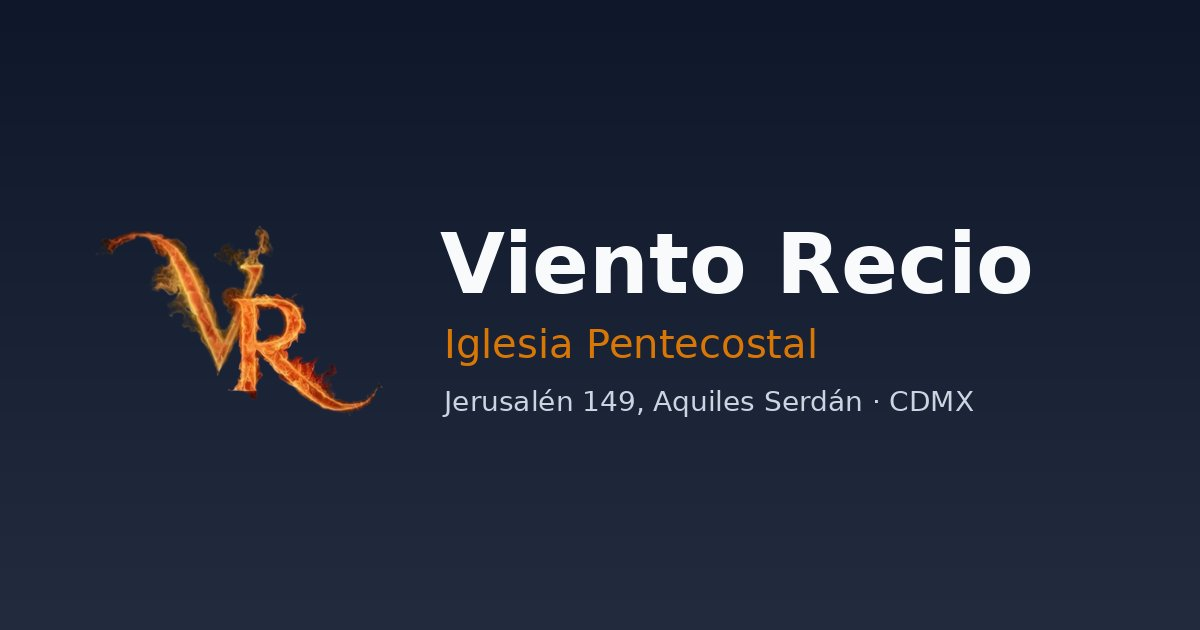
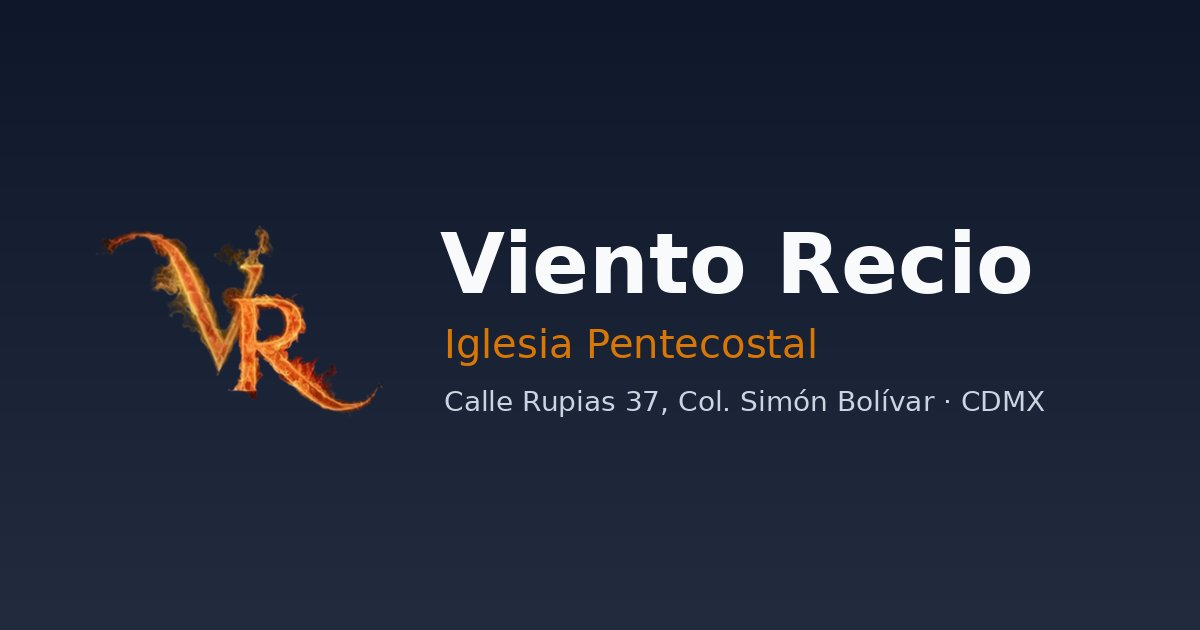
Dirección correcta: Calle Rupias 37, Col. Simón Bolívar (mapa, Google y vista al compartir)

Changed region(s): [[0.37, 0.6032, 0.8633, 0.6635]]

diff --git a/index.html b/index.html
@@ -6,7 +6,7 @@
     <title>Viento Recio | Iglesia Pentecostal en Venustiano Carranza, CDMX</title>
     <meta
       name="description"
-      content="Iglesia Pentecostal Viento Recio: cultos, estudios bíblicos y ministerio de jóvenes en Jerusalén 149, Col. Aquiles Serdán, Venustiano Carranza, CDMX. Te esperamos."
+      content="Iglesia Pentecostal Viento Recio: cultos, estudios bíblicos y ministerio de jóvenes en Calle Rupias 37, Col. Simón Bolívar, Venustiano Carranza, CDMX. Te esperamos."
     />
     <meta name="theme-color" content="#0f172a" />
     <link rel="canonical" href="https://vientorecio.netlify.app/" />
@@ -39,11 +39,15 @@
         "image": "https://vientorecio.netlify.app/og-image.jpg",
         "address": {
           "@type": "PostalAddress",
-          "streetAddress": "Jerusalén 149, Col. Aquiles Serdán",
+          "streetAddress": "Calle Rupias 37, Col. Simón Bolívar",
           "addressLocality": "Venustiano Carranza",
           "addressRegion": "Ciudad de México",
-          "postalCode": "15430",
           "addressCountry": "MX"
+        },
+        "geo": {
+          "@type": "GeoCoordinates",
+          "latitude": 19.4509452,
+          "longitude": -99.0945326
         }
       }
     </script>

diff --git a/src/components/Contact.tsx b/src/components/Contact.tsx
@@ -177,12 +177,12 @@ const Contact: React.FC = () => {
                   <h4>Visítanos</h4>
                   <p className="detail-title">Nuestra Casa de Oración</p>
                   <p className="detail-content">
-                    Jerusalén 149, Col. Aquiles Serdán<br />
-                    Alcaldía Venustiano Carranza, CP 15430<br />
+                    Calle Rupias 37, Col. Simón Bolívar<br />
+                    Alcaldía Venustiano Carranza<br />
                     Ciudad de México
                   </p>
                   <a
-                    href="https://www.google.com/maps/search/?api=1&query=Jerus%C3%A1len+149%2C+Aquiles+Serd%C3%A1n%2C+Venustiano+Carranza%2C+15430+Ciudad+de+M%C3%A9xico"
+                    href="https://www.google.com/maps/search/?api=1&query=19.4509452%2C-99.0945326"
                     className="map-link"
                     target="_blank"
                     rel="noopener noreferrer"

diff --git a/src/components/Footer.tsx b/src/components/Footer.tsx
@@ -32,8 +32,8 @@ const Footer: React.FC = () => {
             <div className="contact-item">
               <FiMapPin />
               <span>
-                Jerusalén 149 Colonia Aquiles Serdán , Venustiano Carranza
-                Centro, Mexico, 15430
+                Calle Rupias 37, Col. Simón Bolívar, Venustiano Carranza,
+                Ciudad de México
               </span>
             </div>
             <div className="contact-item">
